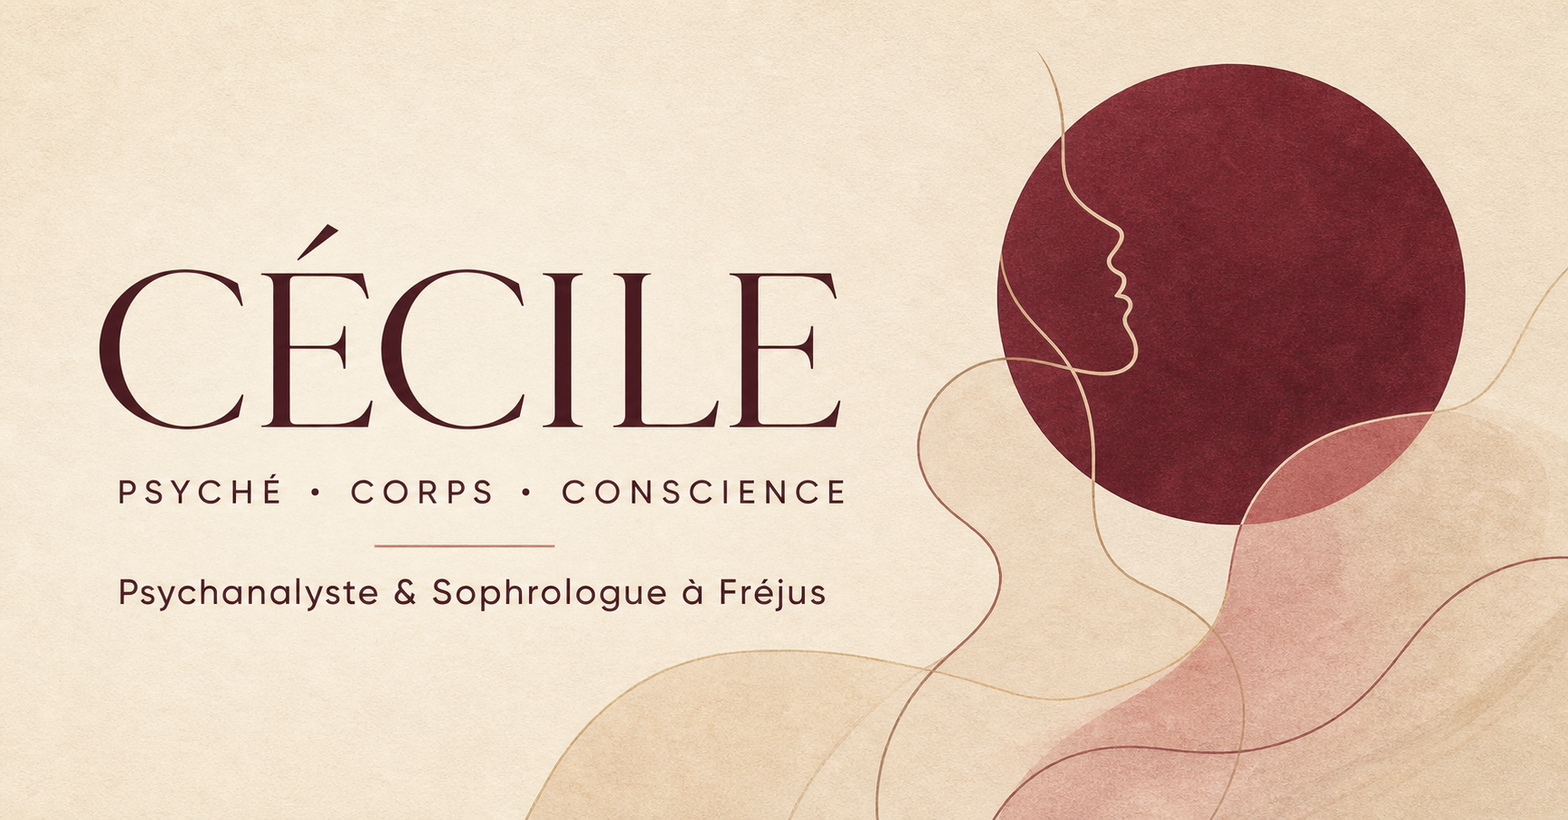
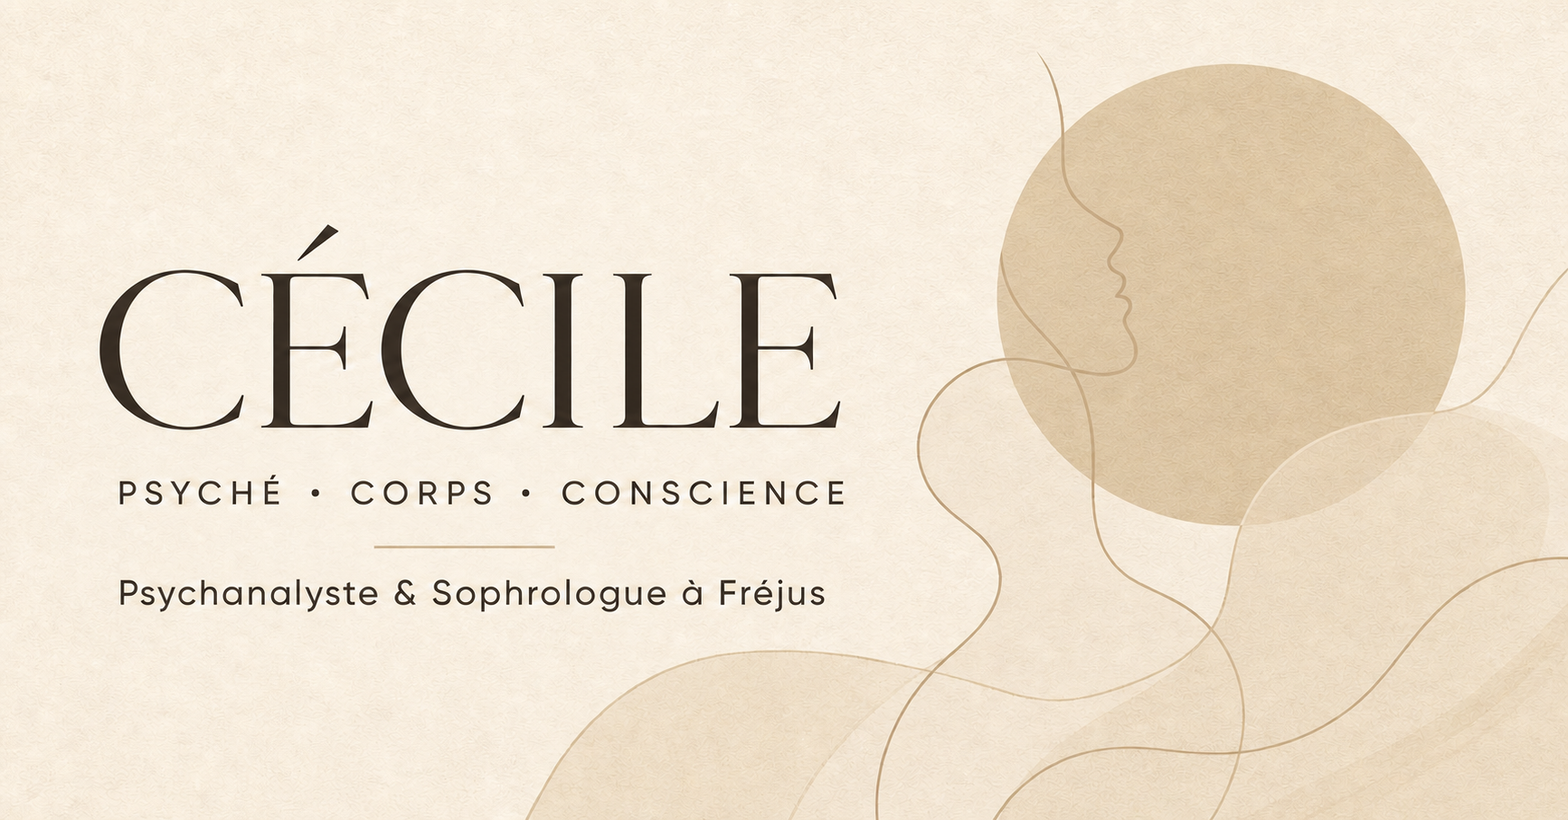
Replace burgundy palette with light beige

diff --git a/app/globals.css b/app/globals.css
@@ -1,7 +1,193 @@
 @import url('https://fonts.googleapis.com/css2?family=DM+Sans:wght@300;400;500;600&family=Italiana&display=swap');
 @import "tailwindcss";
-:root{--ink:#2a171b;--wine:#742f40;--wine-dark:#4a1725;--rose:#c9939d;--sand:#efe4d5;--cream:#f8f2e9;--paper:#fffaf3;--line:rgba(69,31,37,.16)}
-*{box-sizing:border-box}html{scroll-behavior:smooth}body{margin:0;background:var(--cream);color:var(--ink);font-family:"DM Sans",sans-serif;font-size:16px;line-height:1.6}a{color:inherit;text-decoration:none}h1,h2,h3,p{margin-top:0}h1,h2,blockquote{font-family:"Italiana",serif;font-weight:400;line-height:.98;letter-spacing:-.025em}h1 em,h2 em,blockquote em{color:var(--wine);font-weight:400}h2{font-size:clamp(3rem,6vw,6.5rem);margin-bottom:0}.shell{width:min(1240px,calc(100% - 64px));margin:auto}.section{padding:130px 0}.eyebrow{text-transform:uppercase;letter-spacing:.2em;font-size:.68rem;font-weight:600;color:var(--wine);margin-bottom:28px}.light{color:#ebbdc5}.button{display:inline-flex;align-items:center;justify-content:space-between;gap:35px;padding:17px 22px;background:var(--wine);color:white;text-transform:uppercase;letter-spacing:.11em;font-size:.7rem;font-weight:600;border:0;cursor:pointer;min-width:220px}.button span{font-size:1.2rem}.button--light{background:var(--cream);color:var(--wine-dark)}.text-link{display:inline-flex;gap:12px;border-bottom:1px solid var(--wine);padding-bottom:5px;color:var(--wine);font-size:.82rem;font-weight:600}.site-header{height:94px;padding:0 4vw;display:flex;align-items:center;justify-content:space-between;position:relative;z-index:10;border-bottom:1px solid var(--line);background:rgba(248,242,233,.94)}.brand{display:flex;align-items:center;gap:11px}.brand__mark{width:38px;height:38px;border:1px solid var(--wine);border-radius:50%;display:grid;place-items:center;font-family:"Italiana";font-size:1.3rem;color:var(--wine)}.brand strong,.brand small{display:block}.brand strong{font-family:"Italiana";font-size:1.17rem;line-height:1}.brand small{font-size:.51rem;text-transform:uppercase;letter-spacing:.12em;margin-top:4px}.site-header nav{display:flex;gap:34px;font-size:.74rem;text-transform:uppercase;letter-spacing:.08em}.site-header nav a:hover{color:var(--wine)}.nav-cta{text-transform:uppercase;letter-spacing:.11em;font-size:.68rem;border-bottom:1px solid var(--wine);padding:8px 0}.hero{min-height:calc(100vh - 94px);overflow:hidden;position:relative}.hero__grid{display:grid;grid-template-columns:1.25fr .75fr;align-items:center;min-height:680px;padding:55px 0}.hero__copy{position:relative;z-index:2}.hero h1{font-size:clamp(5rem,10vw,10rem);margin:0 0 38px;max-width:900px}.hero__lead{font-size:1.1rem;max-width:490px;margin:0 0 40px;padding-left:82px;position:relative}.hero__lead:before{content:"";position:absolute;left:0;top:15px;width:55px;height:1px;background:var(--wine)}.hero__actions{display:flex;align-items:center;gap:32px;padding-left:82px}.hero__orb{position:absolute;width:620px;height:620px;border-radius:50%;background:radial-gradient(circle at 35% 30%,#d9a9a5,#a85f6d 50%,#713040 82%);right:-100px;top:20px;opacity:.9}.portrait-card{height:520px;width:360px;margin-left:auto;background:var(--wine-dark);position:relative;z-index:1;box-shadow:0 30px 70px rgba(61,25,34,.24)}.portrait-art{height:420px;position:relative;overflow:hidden;background:linear-gradient(160deg,#ddb9ae,#a75f6d)}.portrait-sun{position:absolute;width:180px;height:180px;border-radius:50%;background:#f4d9c6;top:70px;left:90px}.portrait-line{position:absolute;border:1px solid rgba(77,25,39,.45);border-radius:50%;z-index:2}.portrait-line.one{width:200px;height:300px;left:85px;top:80px}.portrait-line.two{width:260px;height:230px;left:20px;top:140px}.portrait-line.three{width:150px;height:370px;left:135px;top:42px}.portrait-caption{height:100px;color:white;display:flex;align-items:center;gap:35px;padding:24px}.portrait-caption span{font-family:"Italiana";font-size:1.6rem;color:var(--rose)}.portrait-caption p{font-size:.67rem;text-transform:uppercase;letter-spacing:.12em;margin:0}.hero__marquee{height:70px;border-top:1px solid var(--line);display:flex;align-items:center;gap:28px;white-space:nowrap;justify-content:center;text-transform:uppercase;font-size:.7rem;letter-spacing:.17em;color:var(--wine)}.hero__marquee i{font-style:normal;color:var(--rose)}.intro{display:grid;grid-template-columns:1fr .8fr;gap:100px;align-items:end}.intro h2{font-size:clamp(3.6rem,6vw,6.5rem)}.intro__text{font-size:1.02rem}.intro__text p{margin-bottom:22px}.intro__text .text-link{margin-top:10px}.practices{background:var(--sand)}.section-heading{margin-bottom:70px}.practice-grid{display:grid;grid-template-columns:repeat(4,1fr);border-left:1px solid var(--line)}.practice-card{padding:35px 28px 28px;border:1px solid var(--line);border-left:0;min-height:400px;transition:.3s;background:rgba(255,255,255,.08)}.practice-card:hover{background:var(--paper);transform:translateY(-8px)}.practice-card>span{font-family:"Italiana";color:var(--rose);font-size:1.2rem}.practice-symbol{height:120px;display:grid;place-items:center;font-size:4.4rem;font-family:"Italiana";color:var(--wine);font-weight:300}.practice-card h3{font-family:"Italiana";font-size:2rem;font-weight:400;margin-bottom:14px}.practice-card p{font-size:.86rem;min-height:94px}.practice-card b{font-size:.68rem;text-transform:uppercase;letter-spacing:.12em;color:var(--wine)}.retreat-feature{display:grid;grid-template-columns:1.1fr .9fr;min-height:700px;background:var(--wine-dark);color:white}.retreat-feature__image{background:url('/villa-maya-1.jpg') center/cover}.retreat-feature__copy{padding:100px 8vw;display:flex;flex-direction:column;justify-content:center}.retreat-feature h2{font-size:clamp(3.5rem,6vw,6rem);margin-bottom:35px}.retreat-feature h2 em{color:#e8bac1}.retreat-feature__copy p:not(.eyebrow){max-width:500px;margin-bottom:40px;color:#eadde0}.two-col{display:grid;grid-template-columns:1fr 2.5fr 1fr;gap:45px;align-items:center}.quote-mark{font-family:"Italiana";font-size:8rem;color:var(--rose);align-self:start}.two-col blockquote{font-size:clamp(2.8rem,5vw,5rem);margin:0}.note-card{border-top:1px solid var(--wine);padding-top:25px;font-size:.82rem}.appointment{background:var(--wine);color:white;padding:100px 0}.appointment__inner{display:grid;grid-template-columns:1.2fr .8fr;gap:100px;align-items:end}.appointment h2{font-size:clamp(3.4rem,6vw,6rem)}.appointment h2 em{color:#e7b9c1}.appointment__inner>div:last-child{max-width:460px}.appointment .button{margin-top:20px}footer{background:#27151a;color:#d8c9c7;padding:80px 0 25px}.footer-grid{display:grid;grid-template-columns:2fr 1fr 1fr 1.3fr;gap:70px}.brand--light .brand__mark{border-color:#d9abb4;color:#d9abb4}.footer-grid>div:not(:first-child){display:flex;flex-direction:column;gap:8px;font-size:.76rem}.footer-title{text-transform:uppercase;letter-spacing:.15em;color:#d9abb4;font-size:.65rem;margin-bottom:10px}.footer-grid p{margin-bottom:0}.footer-bottom{border-top:1px solid rgba(255,255,255,.1);margin-top:65px;padding-top:20px;display:flex;justify-content:space-between;font-size:.62rem;text-transform:uppercase;letter-spacing:.11em}.page-hero{padding:125px 0 110px;border-bottom:1px solid var(--line);background:radial-gradient(circle at 80% 20%,rgba(202,149,158,.25),transparent 35%)}.page-hero h1{font-size:clamp(4.5rem,8vw,8rem);margin:0 0 35px}.page-hero__lead{font-size:1.05rem;max-width:650px;margin-left:30%;border-left:1px solid var(--wine);padding-left:30px}.service-list{padding-top:70px}.service-row{display:grid;grid-template-columns:80px .9fr 1fr;gap:50px;padding:60px 0;border-bottom:1px solid var(--line);scroll-margin-top:30px}.service-row__num{font-family:"Italiana";font-size:1.8rem;color:var(--rose)}.service-row h2{font-size:2.6rem;margin:0}.service-row>p{font-size:.95rem}.info-band{margin-bottom:120px;padding:35px;background:var(--sand);display:grid;grid-template-columns:1fr 1fr;gap:70px;font-size:.8rem}.gallery{display:grid;grid-template-columns:1.7fr 1fr;gap:14px;height:650px;margin-top:70px}.gallery__large{background:url('/villa-maya-2.jpg') center/cover}.gallery__stack{display:grid;gap:14px}.gallery__small.one{background:url('/villa-maya-1.jpg') center/cover}.gallery__small.two{background:url('/villa-maya-3.jpg') center 45%/cover}.retreat-intro{display:grid;grid-template-columns:1fr 1fr;gap:100px}.retreat-intro p{font-size:1rem}.retreat-intro .button{margin-top:25px}.ritual{background:var(--sand);padding:90px 0}.ritual-grid{display:grid;grid-template-columns:repeat(4,1fr)}.ritual-grid>div{padding:20px 30px;border-left:1px solid var(--line)}.ritual-grid span{font-family:"Italiana";color:var(--rose)}.ritual-grid h3{font-family:"Italiana";font-size:2rem;font-weight:400}.ritual-grid p{font-size:.8rem}.image-credit{font-size:.65rem;color:#765e61;padding:18px 0 70px}.training-grid{display:grid;grid-template-columns:repeat(3,1fr);gap:1px;background:var(--line);padding-top:0;padding-bottom:130px}.training-grid article{background:var(--cream);padding:55px 40px}.training-grid span{font-family:"Italiana";color:var(--rose);font-size:1.5rem}.training-grid h2{font-size:2.8rem;margin:50px 0 25px}.manifesto{background:var(--wine-dark);color:white;padding:110px 0}.manifesto h2{font-size:clamp(4rem,8vw,8rem);color:white}.manifesto h2 em{color:var(--rose)}.manifesto>div>p:last-child{max-width:480px;margin-left:auto}.about-grid{display:grid;grid-template-columns:.7fr 1fr;gap:100px;align-items:center}.about-art{min-height:600px;background:linear-gradient(150deg,#d8a5a4,#713040);display:grid;place-items:center}.about-art span{font-family:"Italiana";font-size:13rem;color:rgba(255,255,255,.5)}.about-grid h2{font-size:3.8rem;margin-bottom:30px}.credentials{display:flex;flex-wrap:wrap;gap:8px;margin-top:35px}.credentials span{border:1px solid var(--wine);padding:8px 13px;text-transform:uppercase;font-size:.62rem;letter-spacing:.1em;color:var(--wine)}.contact-grid{display:grid;grid-template-columns:.8fr 1.2fr;gap:110px;align-items:start}.contact-grid h2{font-size:3.8rem;margin-bottom:30px}.contact-details{margin-top:50px;padding-top:25px;border-top:1px solid var(--line);display:grid;grid-template-columns:1fr 1fr;font-size:.78rem}.contact-form{background:var(--paper);padding:45px;box-shadow:0 24px 70px rgba(70,34,38,.1)}.contact-form label{display:flex;flex-direction:column;gap:7px;font-size:.69rem;text-transform:uppercase;letter-spacing:.1em;margin-bottom:20px}.field-row{display:grid;grid-template-columns:1fr 1fr;gap:18px}.contact-form input,.contact-form select,.contact-form textarea{border:0;border-bottom:1px solid #a88688;background:transparent;padding:12px 0;font:inherit;font-size:.9rem;color:var(--ink);outline:none}.contact-form input:focus,.contact-form select:focus,.contact-form textarea:focus{border-color:var(--wine)}.contact-form .consent{flex-direction:row;text-transform:none;letter-spacing:0;align-items:flex-start}.consent input{width:auto}.form-status{font-size:.78rem;color:var(--wine);margin:15px 0 0}.emergency{margin-bottom:100px;padding:25px;border:1px solid var(--line);font-size:.78rem;display:flex;gap:20px}.emergency p{margin:0}
-@media(max-width:900px){.site-header nav{display:none}.shell{width:min(100% - 36px,700px)}.hero__grid{grid-template-columns:1fr;padding-top:90px}.hero h1{font-size:clamp(4.5rem,21vw,7.5rem)}.hero__orb{width:330px;height:330px;right:-160px}.portrait-card{margin:80px auto 40px;width:min(360px,100%)}.hero__lead,.hero__actions{padding-left:0}.intro,.retreat-feature,.appointment__inner,.retreat-intro,.about-grid,.contact-grid{grid-template-columns:1fr}.practice-grid,.ritual-grid{grid-template-columns:1fr 1fr}.two-col{grid-template-columns:50px 1fr}.note-card{grid-column:2}.footer-grid{grid-template-columns:1fr 1fr}.service-row{grid-template-columns:45px 1fr}.service-row>p{grid-column:2}.training-grid{grid-template-columns:1fr}.gallery{height:500px}.page-hero__lead{margin-left:0}.section{padding:90px 0}}
-@media(max-width:560px){.site-header{height:78px;padding:0 18px}.brand small{display:none}.nav-cta{font-size:.58rem}.hero__grid{min-height:0}.hero h1{font-size:4.25rem}.hero__lead{font-size:.95rem}.hero__actions{align-items:flex-start;flex-direction:column}.hero__marquee{justify-content:flex-start;overflow:hidden}.intro{gap:50px}.practice-grid,.ritual-grid,.footer-grid,.info-band{grid-template-columns:1fr}.practice-card{min-height:330px}.retreat-feature__image{min-height:380px}.retreat-feature__copy{padding:70px 25px}.two-col{grid-template-columns:1fr}.quote-mark{height:60px}.note-card{grid-column:1}.appointment__inner{gap:45px}.footer-bottom{flex-direction:column;gap:8px}.page-hero{padding:90px 0 75px}.page-hero h1{font-size:4rem}.gallery{grid-template-columns:1fr;height:600px}.gallery__stack{grid-template-columns:1fr 1fr}.retreat-intro{gap:45px}.service-row{gap:20px}.contact-form{padding:28px 22px}.field-row{grid-template-columns:1fr}.emergency{flex-direction:column}.about-art{min-height:400px}.about-art span{font-size:9rem}}
-@media(prefers-reduced-motion:reduce){html{scroll-behavior:auto}.practice-card{transition:none}}
+:root{--ink:#312b23;--wine:#c8b393;--wine-dark:#b19a78;--rose:#e2d1b8;--sand:#efe4d5;--cream:#f8f2e9;--paper:#fffaf3;--line:rgba(62,51,37,.16)}
+
+*{box-sizing:border-box}
+html{scroll-behavior:smooth}
+body{margin:0;background:var(--cream);color:var(--ink);font-family:"DM Sans",sans-serif;font-size:16px;line-height:1.6}
+a{color:inherit;text-decoration:none}
+h1,h2,h3,p{margin-top:0}
+h1,h2,blockquote{font-family:"Italiana",serif;font-weight:400;line-height:.98;letter-spacing:-.025em}
+h1 em,h2 em,blockquote em{color:var(--wine);font-weight:400}
+h2{font-size:clamp(3rem,6vw,6.5rem);margin-bottom:0}
+.shell{width:min(1240px,calc(100% - 64px));margin:auto}
+.section{padding:130px 0}
+.eyebrow{text-transform:uppercase;letter-spacing:.2em;font-size:.68rem;font-weight:600;color:#776348;margin-bottom:28px}
+.light{color:#4e402f}
+.button{display:inline-flex;align-items:center;justify-content:space-between;gap:35px;padding:17px 22px;background:var(--wine);color:var(--ink);text-transform:uppercase;letter-spacing:.11em;font-size:.7rem;font-weight:600;border:0;cursor:pointer;min-width:220px}
+.button span{font-size:1.2rem}
+.button--light{background:var(--paper);color:var(--ink)}
+.text-link{display:inline-flex;gap:12px;border-bottom:1px solid var(--wine);padding-bottom:5px;color:var(--wine);font-size:.82rem;font-weight:600}
+.site-header{height:94px;padding:0 4vw;display:flex;align-items:center;justify-content:space-between;position:relative;z-index:10;border-bottom:1px solid var(--line);background:rgba(248,242,233,.94)}
+.brand{display:flex;align-items:center;gap:11px}
+.brand__mark{width:38px;height:38px;border:1px solid var(--wine);border-radius:50%;display:grid;place-items:center;font-family:"Italiana";font-size:1.3rem;color:var(--wine)}
+.brand strong,.brand small{display:block}
+.brand strong{font-family:"Italiana";font-size:1.17rem;line-height:1}
+.brand small{font-size:.51rem;text-transform:uppercase;letter-spacing:.12em;margin-top:4px}
+.site-header nav{display:flex;gap:34px;font-size:.74rem;text-transform:uppercase;letter-spacing:.08em}
+.site-header nav a:hover{color:var(--wine)}
+.nav-cta{text-transform:uppercase;letter-spacing:.11em;font-size:.68rem;border-bottom:1px solid var(--wine);padding:8px 0}
+.hero{min-height:calc(100vh - 94px);overflow:hidden;position:relative}
+.hero__grid{display:grid;grid-template-columns:1.25fr .75fr;align-items:center;min-height:680px;padding:55px 0}
+.hero__copy{position:relative;z-index:2}
+.hero h1{font-size:clamp(5rem,10vw,10rem);margin:0 0 38px;max-width:900px}
+.hero__lead{font-size:1.1rem;max-width:490px;margin:0 0 40px;padding-left:82px;position:relative}
+.hero__lead:before{content:"";position:absolute;left:0;top:15px;width:55px;height:1px;background:var(--wine)}
+.hero__actions{display:flex;align-items:center;gap:32px;padding-left:82px}
+.hero__orb{position:absolute;width:620px;height:620px;border-radius:50%;background:radial-gradient(circle at 35% 30%,#f2e8d9,#ddcdb5 50%,#bca685 82%);right:-100px;top:20px;opacity:.9}
+.portrait-card{height:520px;width:360px;margin-left:auto;background:var(--wine-dark);position:relative;z-index:1;box-shadow:0 30px 70px rgba(61,25,34,.24)}
+.portrait-art{height:420px;position:relative;overflow:hidden;background:linear-gradient(160deg,#f4eadc,#c9b391)}
+.portrait-sun{position:absolute;width:180px;height:180px;border-radius:50%;background:#f4d9c6;top:70px;left:90px}
+.portrait-line{position:absolute;border:1px solid rgba(77,25,39,.45);border-radius:50%;z-index:2}
+.portrait-line.one{width:200px;height:300px;left:85px;top:80px}
+.portrait-line.two{width:260px;height:230px;left:20px;top:140px}
+.portrait-line.three{width:150px;height:370px;left:135px;top:42px}
+.portrait-caption{height:100px;color:var(--ink);display:flex;align-items:center;gap:35px;padding:24px}
+.portrait-caption span{font-family:"Italiana";font-size:1.6rem;color:var(--rose)}
+.portrait-caption p{font-size:.67rem;text-transform:uppercase;letter-spacing:.12em;margin:0}
+.hero__marquee{height:70px;border-top:1px solid var(--line);display:flex;align-items:center;gap:28px;white-space:nowrap;justify-content:center;text-transform:uppercase;font-size:.7rem;letter-spacing:.17em;color:var(--wine)}
+.hero__marquee i{font-style:normal;color:var(--rose)}
+.intro{display:grid;grid-template-columns:1fr .8fr;gap:100px;align-items:end}
+.intro h2{font-size:clamp(3.6rem,6vw,6.5rem)}
+.intro__text{font-size:1.02rem}
+.intro__text p{margin-bottom:22px}
+.intro__text .text-link{margin-top:10px}
+.practices{background:var(--sand)}
+.section-heading{margin-bottom:70px}
+.practice-grid{display:grid;grid-template-columns:repeat(4,1fr);border-left:1px solid var(--line)}
+.practice-card{padding:35px 28px 28px;border:1px solid var(--line);border-left:0;min-height:400px;transition:.3s;background:rgba(255,255,255,.08)}
+.practice-card:hover{background:var(--paper);transform:translateY(-8px)}
+.practice-card>span{font-family:"Italiana";color:var(--rose);font-size:1.2rem}
+.practice-symbol{height:120px;display:grid;place-items:center;font-size:4.4rem;font-family:"Italiana";color:var(--wine);font-weight:300}
+.practice-card h3{font-family:"Italiana";font-size:2rem;font-weight:400;margin-bottom:14px}
+.practice-card p{font-size:.86rem;min-height:94px}
+.practice-card b{font-size:.68rem;text-transform:uppercase;letter-spacing:.12em;color:var(--wine)}
+.retreat-feature{display:grid;grid-template-columns:1.1fr .9fr;min-height:700px;background:var(--wine-dark);color:var(--ink)}
+.retreat-feature__image{background:url('/villa-maya-1.jpg') center/cover}
+.retreat-feature__copy{padding:100px 8vw;display:flex;flex-direction:column;justify-content:center}
+.retreat-feature h2{font-size:clamp(3.5rem,6vw,6rem);margin-bottom:35px}
+.retreat-feature h2 em{color:#5e4a31}
+.retreat-feature__copy p:not(.eyebrow){max-width:500px;margin-bottom:40px;color:#3f3528}
+.two-col{display:grid;grid-template-columns:1fr 2.5fr 1fr;gap:45px;align-items:center}
+.quote-mark{font-family:"Italiana";font-size:8rem;color:var(--rose);align-self:start}
+.two-col blockquote{font-size:clamp(2.8rem,5vw,5rem);margin:0}
+.note-card{border-top:1px solid var(--wine);padding-top:25px;font-size:.82rem}
+.appointment{background:var(--wine);color:var(--ink);padding:100px 0}
+.appointment__inner{display:grid;grid-template-columns:1.2fr .8fr;gap:100px;align-items:end}
+.appointment h2{font-size:clamp(3.4rem,6vw,6rem)}
+.appointment h2 em{color:#5d4930}
+.appointment__inner>div:last-child{max-width:460px}
+.appointment .button{margin-top:20px}
+footer{background:#d4c4aa;color:var(--ink);padding:80px 0 25px}
+.footer-grid{display:grid;grid-template-columns:2fr 1fr 1fr 1.3fr;gap:70px}
+.brand--light .brand__mark{border-color:#66533a;color:#66533a}
+.footer-grid>div:not(:first-child){display:flex;flex-direction:column;gap:8px;font-size:.76rem}
+.footer-title{text-transform:uppercase;letter-spacing:.15em;color:#66533a;font-size:.65rem;margin-bottom:10px}
+.footer-grid p{margin-bottom:0}
+.footer-bottom{border-top:1px solid rgba(49,43,35,.18);margin-top:65px;padding-top:20px;display:flex;justify-content:space-between;font-size:.62rem;text-transform:uppercase;letter-spacing:.11em}
+.page-hero{padding:125px 0 110px;border-bottom:1px solid var(--line);background:radial-gradient(circle at 80% 20%,rgba(202,149,158,.25),transparent 35%)}
+.page-hero h1{font-size:clamp(4.5rem,8vw,8rem);margin:0 0 35px}
+.page-hero__lead{font-size:1.05rem;max-width:650px;margin-left:30%;border-left:1px solid var(--wine);padding-left:30px}
+.service-list{padding-top:70px}
+.service-row{display:grid;grid-template-columns:80px .9fr 1fr;gap:50px;padding:60px 0;border-bottom:1px solid var(--line);scroll-margin-top:30px}
+.service-row__num{font-family:"Italiana";font-size:1.8rem;color:var(--rose)}
+.service-row h2{font-size:2.6rem;margin:0}
+.service-row>p{font-size:.95rem}
+.info-band{margin-bottom:120px;padding:35px;background:var(--sand);display:grid;grid-template-columns:1fr 1fr;gap:70px;font-size:.8rem}
+.gallery{display:grid;grid-template-columns:1.7fr 1fr;gap:14px;height:650px;margin-top:70px}
+.gallery__large{background:url('/villa-maya-2.jpg') center/cover}
+.gallery__stack{display:grid;gap:14px}
+.gallery__small.one{background:url('/villa-maya-1.jpg') center/cover}
+.gallery__small.two{background:url('/villa-maya-3.jpg') center 45%/cover}
+.retreat-intro{display:grid;grid-template-columns:1fr 1fr;gap:100px}
+.retreat-intro p{font-size:1rem}
+.retreat-intro .button{margin-top:25px}
+.ritual{background:var(--sand);padding:90px 0}
+.ritual-grid{display:grid;grid-template-columns:repeat(4,1fr)}
+.ritual-grid>div{padding:20px 30px;border-left:1px solid var(--line)}
+.ritual-grid span{font-family:"Italiana";color:var(--rose)}
+.ritual-grid h3{font-family:"Italiana";font-size:2rem;font-weight:400}
+.ritual-grid p{font-size:.8rem}
+.image-credit{font-size:.65rem;color:#765e61;padding:18px 0 70px}
+.training-grid{display:grid;grid-template-columns:repeat(3,1fr);gap:1px;background:var(--line);padding-top:0;padding-bottom:130px}
+.training-grid article{background:var(--cream);padding:55px 40px}
+.training-grid span{font-family:"Italiana";color:var(--rose);font-size:1.5rem}
+.training-grid h2{font-size:2.8rem;margin:50px 0 25px}
+.manifesto{background:var(--wine-dark);color:var(--ink);padding:110px 0}
+.manifesto h2{font-size:clamp(4rem,8vw,8rem);color:var(--ink)}
+.manifesto h2 em{color:#5d4930}
+.manifesto>div>p:last-child{max-width:480px;margin-left:auto}
+.about-grid{display:grid;grid-template-columns:.7fr 1fr;gap:100px;align-items:center}
+.about-art{min-height:600px;background:linear-gradient(150deg,#f1e5d3,#bba27f);display:grid;place-items:center}
+.about-art span{font-family:"Italiana";font-size:13rem;color:rgba(255,255,255,.5)}
+.about-grid h2{font-size:3.8rem;margin-bottom:30px}
+.credentials{display:flex;flex-wrap:wrap;gap:8px;margin-top:35px}
+.credentials span{border:1px solid var(--wine);padding:8px 13px;text-transform:uppercase;font-size:.62rem;letter-spacing:.1em;color:var(--wine)}
+.contact-grid{display:grid;grid-template-columns:.8fr 1.2fr;gap:110px;align-items:start}
+.contact-grid h2{font-size:3.8rem;margin-bottom:30px}
+.contact-details{margin-top:50px;padding-top:25px;border-top:1px solid var(--line);display:grid;grid-template-columns:1fr 1fr;font-size:.78rem}
+.contact-form{background:var(--paper);padding:45px;box-shadow:0 24px 70px rgba(70,34,38,.1)}
+.contact-form label{display:flex;flex-direction:column;gap:7px;font-size:.69rem;text-transform:uppercase;letter-spacing:.1em;margin-bottom:20px}
+.field-row{display:grid;grid-template-columns:1fr 1fr;gap:18px}
+.contact-form input,.contact-form select,.contact-form textarea{border:0;border-bottom:1px solid #a48d6d;background:transparent;padding:12px 0;font:inherit;font-size:.9rem;color:var(--ink);outline:none}
+.contact-form input:focus,.contact-form select:focus,.contact-form textarea:focus{border-color:var(--wine)}
+.contact-form .consent{flex-direction:row;text-transform:none;letter-spacing:0;align-items:flex-start}
+.consent input{width:auto}
+.form-status{font-size:.78rem;color:var(--wine);margin:15px 0 0}
+.emergency{margin-bottom:100px;padding:25px;border:1px solid var(--line);font-size:.78rem;display:flex;gap:20px}
+.emergency p{margin:0}
+
+@media(max-width:900px){.site-header nav{display:none}
+.shell{width:min(100% - 36px,700px)}
+.hero__grid{grid-template-columns:1fr;padding-top:90px}
+.hero h1{font-size:clamp(4.5rem,21vw,7.5rem)}
+.hero__orb{width:330px;height:330px;right:-160px}
+.portrait-card{margin:80px auto 40px;width:min(360px,100%)}
+.hero__lead,.hero__actions{padding-left:0}
+.intro,.retreat-feature,.appointment__inner,.retreat-intro,.about-grid,.contact-grid{grid-template-columns:1fr}
+.practice-grid,.ritual-grid{grid-template-columns:1fr 1fr}
+.two-col{grid-template-columns:50px 1fr}
+.note-card{grid-column:2}
+.footer-grid{grid-template-columns:1fr 1fr}
+.service-row{grid-template-columns:45px 1fr}
+.service-row>p{grid-column:2}
+.training-grid{grid-template-columns:1fr}
+.gallery{height:500px}
+.page-hero__lead{margin-left:0}
+.section{padding:90px 0}
+}
+
+@media(max-width:560px){.site-header{height:78px;padding:0 18px}
+.brand small{display:none}
+.nav-cta{font-size:.58rem}
+.hero__grid{min-height:0}
+.hero h1{font-size:4.25rem}
+.hero__lead{font-size:.95rem}
+.hero__actions{align-items:flex-start;flex-direction:column}
+.hero__marquee{justify-content:flex-start;overflow:hidden}
+.intro{gap:50px}
+.practice-grid,.ritual-grid,.footer-grid,.info-band{grid-template-columns:1fr}
+.practice-card{min-height:330px}
+.retreat-feature__image{min-height:380px}
+.retreat-feature__copy{padding:70px 25px}
+.two-col{grid-template-columns:1fr}
+.quote-mark{height:60px}
+.note-card{grid-column:1}
+.appointment__inner{gap:45px}
+.footer-bottom{flex-direction:column;gap:8px}
+.page-hero{padding:90px 0 75px}
+.page-hero h1{font-size:4rem}
+.gallery{grid-template-columns:1fr;height:600px}
+.gallery__stack{grid-template-columns:1fr 1fr}
+.retreat-intro{gap:45px}
+.service-row{gap:20px}
+.contact-form{padding:28px 22px}
+.field-row{grid-template-columns:1fr}
+.emergency{flex-direction:column}
+.about-art{min-height:400px}
+.about-art span{font-size:9rem}
+}
+
+@media(prefers-reduced-motion:reduce){html{scroll-behavior:auto}
+.practice-card{transition:none}
+}
